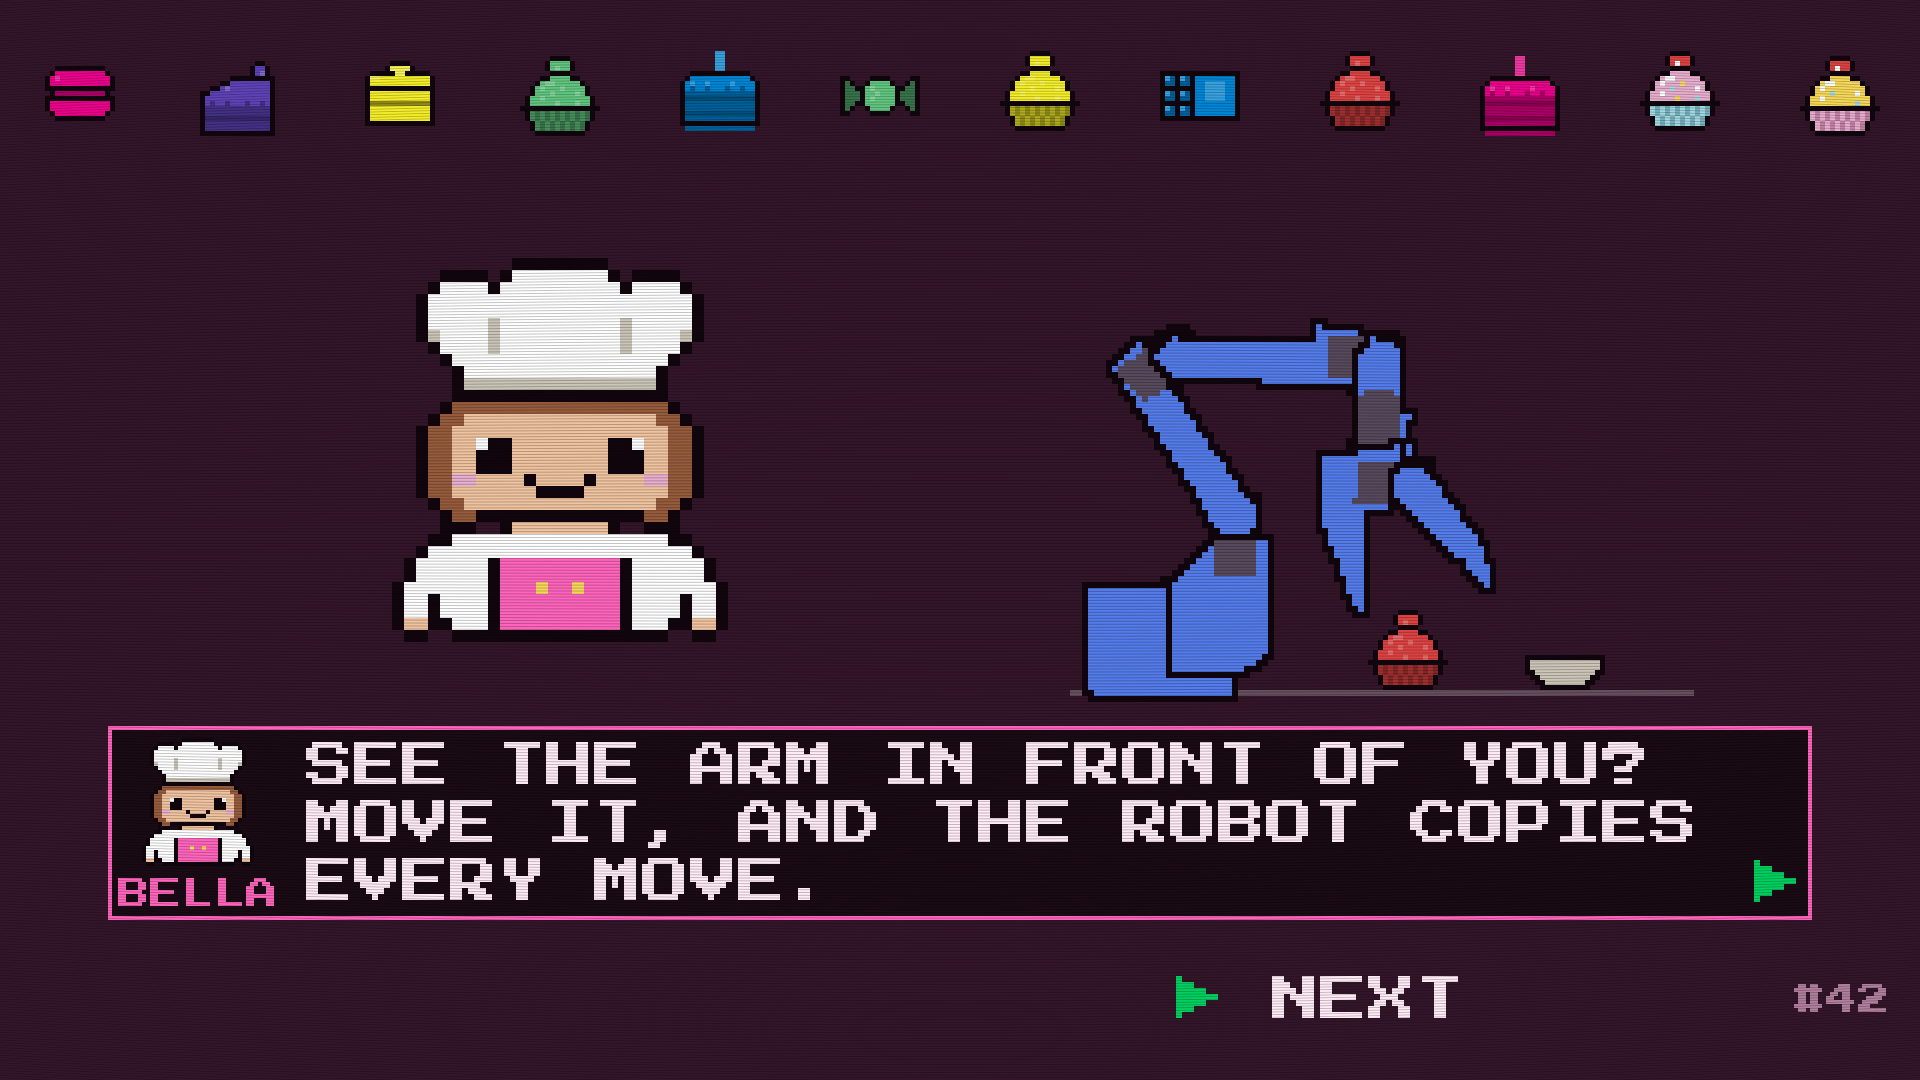
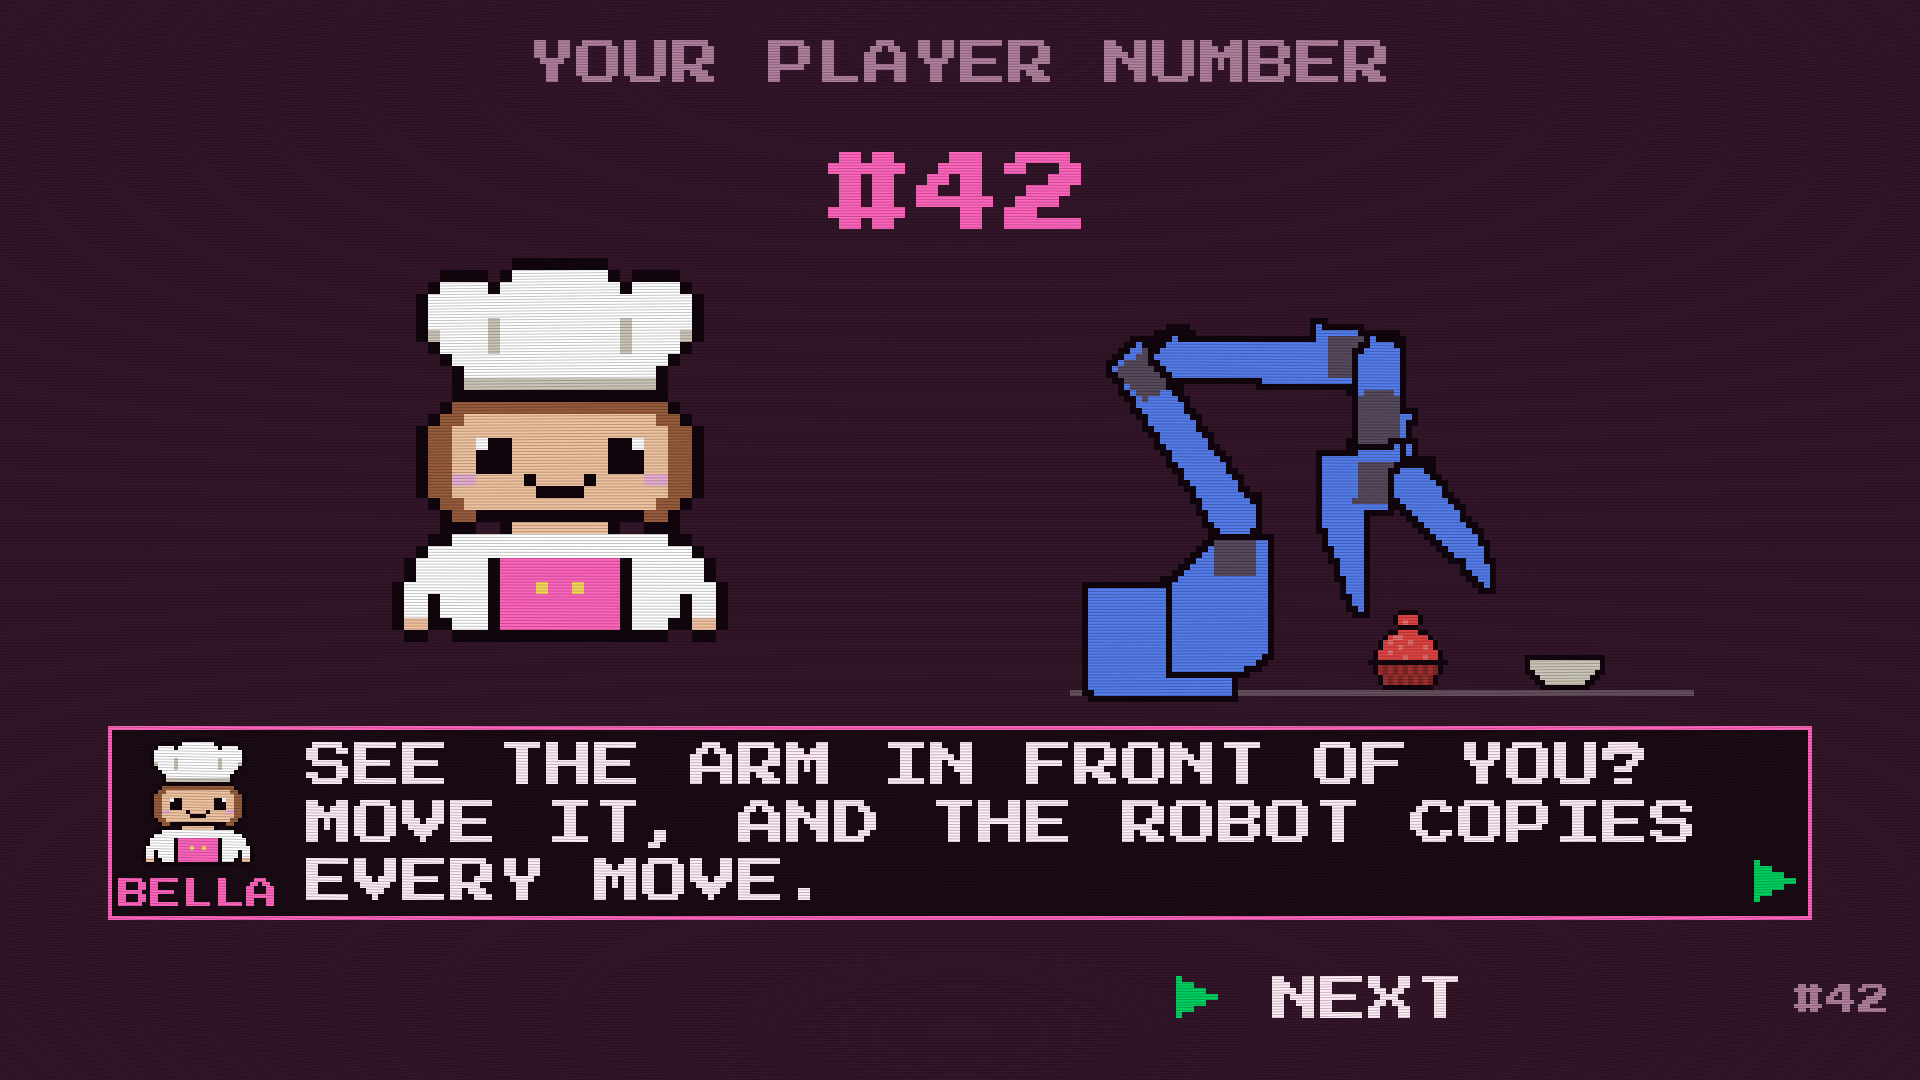
feat: player number big on Bella's first screen, pnp-cam <role> flip live
- StoryScene: "YOUR PLAYER NUMBER #N" in the game's header style instead of
  the parade; the corner tag alone went unnoticed at the fair
- pnp-cam arm|top flip mirror|ud|180|off writes flip.json, the game re-reads
  it once a second: orientation testable during a round, no restart. Display
  only, the overlay flips along. Replaces pnp-mirror and PNP_ARM_MIRROR/UD.
- handoff: clock notes

diff --git a/game/scenes.py b/game/scenes.py
@@ -735,12 +735,9 @@ class PickScene(SceneBase):
 class StoryScene(SceneBase):
     """Bella says hello. A returning player gets one line and skips practice.
 
-    No player number here any more (2026-09-24): not everyone wants to come
-    back a second time, and a number plus "show it to the team" as the
-    first thing after your name is homework before the game. It's shown
-    where it's needed instead -- small during the practice round, so the
-    team can copy it into the sign-up form, and once at the end, when
-    playing again is actually the question.
+    The player number stands big at the top (29.9., fair). On 24.9. it had
+    been moved to a small corner tag as "homework before the game"; at the
+    fair the team needs it for the sign-up form and nobody saw it.
     """
 
     MUSIC_IN = (0.0, 800)
@@ -774,7 +771,10 @@ class StoryScene(SceneBase):
     def render(self, screen):
         f = self.ctx.fonts
         screen.fill(BG)
-        parade(screen, self.now, 96, 60)
+        # The number up top, big, in the game's header style (29.9., fair):
+        # small in the corner, nobody noticed it before the end.
+        draw(screen, f["small"], self.t("your_no"), 960, 64, GREY)
+        draw(screen, f["mid"], f"#{self.player}", 960, 196, ACCENT)
         stamp(screen, self.dialog.face(), 12, 560, 450 + hop(self.now, 0, 6))
         demo(screen, self.now)
         self.dialog.draw(screen, f)
@@ -1054,19 +1054,22 @@ class GameScene(SceneBase):
             return "guest_joy"
         return "guest_sweat" if self.target and self.total > self.target else "guest"
 
-    def overlay(self, screen, r):
+    def overlay(self, screen, r, mirror=False, ud=False):
         """Detection window and a frame around every marker the camera sees.
 
         The frame answers "did it count?" right on the image, where the
         player is looking anyway -- without covering the treat the way a
-        price label did.
+        price label did. Flipped like the pane (pnp-cam top flip).
         """
+        fx = (lambda x: 1 - x) if mirror else (lambda x: x)
+        fy = (lambda y: 1 - y) if ud else (lambda y: y)
+        px = lambda x, y: (r.x + fx(x) * r.w, r.y + fy(y) * r.h)
         rx, ry, rw, rh = TRAY_ROI
-        pygame.draw.rect(screen, GREY, (r.x + rx * r.w, r.y + ry * r.h,
-                                        rw * r.w, rh * r.h), MARK_WIDTH)
+        (x0, y0), (x1, y1) = px(rx, ry), px(rx + rw, ry + rh)
+        pygame.draw.rect(screen, GREY, (min(x0, x1), min(y0, y1), abs(x1 - x0), abs(y1 - y0)),
+                         MARK_WIDTH)
         for quad in self.marks.values():
-            pygame.draw.polygon(screen, ACCENT, [(r.x + x * r.w, r.y + y * r.h)
-                                                 for x, y in quad], MARK_WIDTH)
+            pygame.draw.polygon(screen, ACCENT, [px(x, y) for x, y in quad], MARK_WIDTH)
 
     def bar(self, screen):
         """Where the total stands and where it needs to go, as one image.
@@ -1146,7 +1149,8 @@ class GameScene(SceneBase):
                 screen.fill(GREY, r.inflate(8, 8))
                 screen.blit(cam, r)
                 if view.det:
-                    self.overlay(screen, r)
+                    self.overlay(screen, r, getattr(view, "mirror", False),
+                                 getattr(view, "ud", False))
         if self.fx:
             self.fx.draw(screen)    # over the panes, under the numbers
         # The top says what to do, with a verb: "ADD 3,20 €", not "OFF BY".

diff --git a/tools/cam.py b/tools/cam.py
@@ -4,6 +4,7 @@
   pnp-cam top exposure 60     manual exposure in 100 us (1..10000), lower = darker
   pnp-cam arm exposure auto   back to the camera's own exposure
   pnp-cam top zoom 46         also gain, brightness, gamma, or any v4l2 name
+  pnp-cam arm flip 180        pane on screen: mirror | ud | 180 | off, live, no restart
   pnp-cam snap                both frames, top with the detection box, as jpg
   pnp-cam --test              self-test, no hardware
 """
@@ -27,8 +28,24 @@ def plan(name, value):
     return {name: int(value)}
 
 
+def flip(path, role, word):
+    """Write one pane's flip into flip.json, keep the other's."""
+    from config import FLIPS
+    if word not in FLIPS:
+        sys.exit(f"flip: {' | '.join(FLIPS)}")
+    try:
+        with open(path) as f:
+            saved = json.load(f)
+    except (OSError, ValueError):
+        saved = {}
+    saved[role] = word
+    with open(path, "w") as f:
+        json.dump(saved, f)
+
+
 def main(argv):
-    from config import CAM_INDEXES, CAM_CTRLS_FILE
+    from config import CAM_INDEXES, CAM_CTRLS_FILE, FLIP_FILE
+    from hw import read_flips
     roles = dict(zip(("arm", "top"), CAM_INDEXES))
 
     def ctl(role, *args):
@@ -51,6 +68,10 @@ def main(argv):
                 if os.path.exists(p) and os.path.getmtime(p) >= t:
                     print(p)
         return
+    if len(argv) == 3 and argv[0] in roles and argv[1] == "flip":
+        # Display only, the game re-reads the file every second
+        flip(FLIP_FILE, argv[0], argv[2])
+        argv = []
     if argv:
         if len(argv) != 3 or argv[0] not in roles:
             sys.exit(__doc__)
@@ -68,6 +89,10 @@ def main(argv):
             saved[role].pop("exposure_time_absolute", None)
         with open(CAM_CTRLS_FILE, "w") as f:
             json.dump(saved, f, indent=1)
+    from config import FLIPS
+    names = {v: k for k, v in FLIPS.items()}
+    for r, f in read_flips().items():
+        print(f"{r:4} flip {names[f]}")
     for r in roles:
         print(f"{r:4}", "  ".join(l.strip() for l in ctl(r, "-C", SHOW).splitlines()))
 
@@ -78,6 +103,13 @@ if __name__ == "__main__":
         assert plan("exposure", "auto") == {"auto_exposure": 3}
         assert plan("zoom", "46") == {"zoom_absolute": 46}
         assert plan("gain", "80") == {"gain": 80}
+        import tempfile
+        from hw import read_flips
+        t = tempfile.mktemp(suffix=".json")
+        flip(t, "top", "ud")
+        flip(t, "arm", "off")
+        assert read_flips(t) == {"arm": (False, False), "top": (False, True)}
+        os.unlink(t)
         print("ok")
     else:
         main(sys.argv[1:])

diff --git a/game/hw.py b/game/hw.py
@@ -1,4 +1,5 @@
 import fcntl
+import json
 import os
 import random
 import socket
@@ -11,7 +12,7 @@ import cv2
 import numpy as np
 import pygame
 
-from config import (VALUES, CAM_SIZE, CAM_VIEW, MARKER_HOLD, DETECT_HZ,
+from config import (VALUES, CAM_SIZE, CAM_VIEW, MARKER_HOLD, DETECT_HZ, FLIPS, FLIP_DEFAULT, FLIP_FILE,
                     TRAY_ROI, DEMO_SIZE, BUTTON_PINS, KEY_REPEAT, HOLD_QUIT,
                     LED_DEV, LED_COUNT, LED_ORDER, LED_BRIGHT, LED_FPS,
                     LED_STRIPES, LED_A, LED_B, LED_RED, LED_SIDES,
@@ -372,6 +373,20 @@ VIEW_GAMMA = float(os.environ.get("PNP_VIEW_GAMMA", "0.55"))   # <1 = brighter
 VIEW_LUT = np.array([255 * (i / 255) ** VIEW_GAMMA for i in range(256)], np.uint8)
 
 
+def read_flips(path=FLIP_FILE):
+    """{"arm": (mirror, ud), "top": ...} from FLIP_DEFAULT and flip.json.
+    A missing or broken file, or an unknown word, falls back to the default:
+    a typo must never take the game down."""
+    try:
+        with open(path) as f:
+            saved = json.load(f)
+    except (OSError, ValueError):
+        saved = {}
+    if not isinstance(saved, dict):
+        saved = {}
+    return {r: FLIPS.get(saved.get(r), FLIPS[d]) for r, d in FLIP_DEFAULT.items()}
+
+
 class CameraView:
     """Passthrough: newest camera frame as a pygame surface at inset size.
 
@@ -717,6 +732,15 @@ if __name__ == "__main__":
     assert v.get_at((5, 5))[:3] != (0, 0, 0) and v.get_at((35, 5))[:3] == (0, 0, 0)
     v = CameraView(_Cam(), size=(40, 20), mirror=True, ud=True).surface()   # 180°
     assert v.get_at((35, 5))[:3] != (0, 0, 0) and v.get_at((5, 5))[:3] == (0, 0, 0)
+    # Flips: default, file, and garbage that must fall back instead of raising
+    import tempfile
+    with tempfile.NamedTemporaryFile("w", suffix=".json", delete=False) as t:
+        t.write('{"arm": "180", "top": "nonsense"}')
+    assert read_flips(t.name) == {"arm": (True, True), "top": FLIPS[FLIP_DEFAULT["top"]]}
+    open(t.name, "w").write("{broken")
+    assert read_flips(t.name) == {r: FLIPS[d] for r, d in FLIP_DEFAULT.items()}
+    os.unlink(t.name)
+    assert read_flips("/nonexistent")["arm"] == FLIPS[FLIP_DEFAULT["arm"]]
     # Without a device, silent instead of crashing -- that's how the game runs on the Mac
     q = Leds(dev="/nonexistent")
     q.show("game", 0.3)

diff --git a/game/main.py b/game/main.py
@@ -1,16 +1,17 @@
 import os
 import signal
 import subprocess
+import time
 
 import cv2
 import pygame
-from config import (WIDTH, HEIGHT, FPS, FONT_PATH, FONT_SIZES, CAMERA, CAM_VIEWS, ARM_MIRROR, ARM_UD,
+from config import (WIDTH, HEIGHT, FPS, FONT_PATH, FONT_SIZES, CAMERA, CAM_VIEWS,
                     CAM_INDEXES, CAM_ZOOM, CAM_FLIP, DEMO_VIDEO, CV_THREADS, BUTTONS,
                     CAM_STALE, CAM_CTRLS, TRAY_ROI, MAC)
 from app import Ctx, run_game
 from db import DB
 from hw import (ArucoDetector, Buttons, Camera, CameraView, FakeDetector,
-                Leds, VideoView, notify)
+                Leds, VideoView, notify, read_flips)
 from music import Music, SR, BUF
 from scenes import IdleScene
 
@@ -54,7 +55,7 @@ def main():
     # Left is plain passthrough, right is the same image plus overlay. Only
     # the top-down pane gets the detector.
     ctx = Ctx(detector=det, db=DB(), fonts=fonts, music=Music(), leds=Leds(),
-              views=(CameraView(cams[arm], size=CAM_VIEWS[0], mirror=ARM_MIRROR, ud=ARM_UD),
+              views=(CameraView(cams[arm], size=CAM_VIEWS[0]),
                      CameraView(cams[top], det, size=CAM_VIEWS[1])) if cams else (),
               demo=VideoView(DEMO_VIDEO) if DEMO_VIDEO else None,
               buttons=Buttons() if BUTTONS else None)
@@ -62,10 +63,16 @@ def main():
     # The scene name goes to a file so the updater only restarts between
     # rounds; the watchdog ping only goes out while every camera delivers.
     run_dir = os.environ.get("RUNTIME_DIRECTORY")
-    last = None
+    last, polled = None, 0.0
 
     def beat(scene):
-        nonlocal last
+        nonlocal last, polled
+        # pnp-cam <role> flip ...: re-read once a second, no restart
+        if ctx.views and time.monotonic() - polled > 1.0:
+            polled = time.monotonic()
+            flips = read_flips()
+            for role, view in zip(("arm", "top"), ctx.views):
+                view.mirror, view.ud = flips[role]
         name = type(scene).__name__
         if run_dir and name != last:
             with open(os.path.join(run_dir, "state"), "w") as f:

diff --git a/game/config.py b/game/config.py
@@ -386,12 +386,14 @@ except FileNotFoundError:
 # below, the timer pie in the 224 px gap between the two. 768 x 432 left the
 # pie 8 px from the frames and the instruction no room to its label.
 CAM_VIEW      = (736, 414)
-# The arm cam is mirrored left/right by default (29.9., fair): unmirrored it
-# ran against the leader arm and people steered the wrong way by it.
-# PNP_ARM_MIRROR=0 turns it off (pnp-mirror). Display only -- the top-down
-# pane and the detector never see it.
-ARM_MIRROR    = os.environ.get("PNP_ARM_MIRROR", "1") == "1"
-ARM_UD        = os.environ.get("PNP_ARM_UD") == "1"   # upside down; both = 180°
+# How each pane is flipped on screen. Display only: the detector never sees
+# it, the overlay flips along. The arm cam is mirrored by default (29.9.,
+# fair): unmirrored it ran against the leader arm. `pnp-cam arm flip 180`
+# writes FLIP_FILE and the running game picks it up within a second.
+FLIPS         = {"off": (False, False), "mirror": (True, False),   # (mirror, upside down)
+                 "ud": (False, True), "180": (True, True)}
+FLIP_DEFAULT  = {"arm": "mirror", "top": "off"}
+FLIP_FILE     = os.path.join(os.path.dirname(__file__), "..", "flip.json")
 # split (default since the 29.9. evening): two equal panes, top-down left,
 # arm cam right. top: top-down big in the center, arm cam a small inset on
 # the left. The big arm cam in the center (fpv) stuttered and was dropped.

diff --git a/game/themes/sugar_rush.py b/game/themes/sugar_rush.py
@@ -81,7 +81,7 @@ TEXT = {
               "YOU GET {think} SECONDS TO DO THE MATH, THEN THE CLOCK STARTS FOR THE ARM.",
         think_q="WHICH TREATS MAKE {goal}?", ready="▶ READY",
         go="▶ START", get_ready="GET READY!", add="ADD", over="OVER BUDGET", hold="HANDS OFF! {n}",
-        perfect="PERFECT", player="PLAYER #{no}",
+        perfect="PERFECT", player="PLAYER #{no}", your_no="YOUR PLAYER NUMBER",
         score="SCORE", rank="#{place} OF {count} TODAY",
         remember="WANT ANOTHER GO? JUST REMEMBER YOUR NUMBER: #{no}",
         react=("OH, THE TRAY IS STILL EMPTY. MAYBE NEXT TIME!",
@@ -125,7 +125,7 @@ TEXT = {
         think_q="{goal}: WELCHE SÜßIGKEITEN PASSEN?", ready="▶ BEREIT",
         go="▶ LOS GEHT'S", get_ready="GLEICH GEHT'S LOS!", add="ES FEHLEN NOCH", over="ÜBER BUDGET",
         hold="NICHT MEHR ANFASSEN! {n}",
-        perfect="PERFEKT", player="SPIELER #{no}",
+        perfect="PERFEKT", player="SPIELER #{no}", your_no="DEINE SPIELERNUMMER",
         score="PUNKTE", rank="PLATZ {place} VON {count} HEUTE",
         remember="LUST AUF NOCH EINE RUNDE? MERK DIR DEINE NUMMER: #{no}",
         react=("OH, DAS TABLETT IST JA NOCH LEER. VIELLEICHT NÄCHSTES MAL!",

diff --git a/docs/handoff.md b/docs/handoff.md
@@ -12,8 +12,14 @@ run tests or camera snaps on the Pi while someone plays (it stutters).
 - `ssh picknplay` (WiFi, 172.22.1.2) is not reliable: `eth0` and `wlan0`
   share the static IP in netplan. `docs/operation.md` ("DHCP") is out of date.
 - **The Pi has no internet.** `pnp-update.timer` pulls nothing, a push to
-  origin/expo does NOT reach the Pi. Its wall clock is off, so DB `ts`
-  columns are wrong; differences in `events.t` are right (monotonic).
+  origin/expo does NOT reach the Pi.
+- **Clock:** no NTP and the RTC has no battery. Set by hand from the Mac on
+  29.9. (was 9 h 35 min behind; all DB `ts` of that boot shifted by the same
+  offset, backup `scores.backup-before-clock.db`), timezone Europe/Berlin.
+  After a power cut it resumes from the mtime of
+  `/var/lib/systemd/timesync/clock` (last run time), so check it:
+  `date` on Pi vs Mac, then `sudo date -s @$(date +%s)` via ssh.
+  `ts` columns are UTC; `events.t` is monotonic per boot.
 - The Mac has no `timeout`; use `perl -e 'alarm N; exec @ARGV' ...`.
 
 ## Unattended: what heals itself
@@ -42,8 +48,10 @@ Returning players start at `read`.
 
 Defaults, no drop-ins needed any more: layout `split` (top-down left, arm cam
 right, Oskar between), arm cam mirrored, round 120 s, `MARKER_HOLD` 1.0 s.
-Toggles still work (each restarts the game): `pnp-layout split|top`,
-`pnp-mirror on|off|ud|180`, `pnp-time N`, `pnp-think N`.
+Toggles: `pnp-cam arm flip mirror|ud|180|off` (and `top`) flips a pane
+live, no restart, kept in `flip.json` (display only, the overlay follows).
+These restart the game: `pnp-layout split|top`, `pnp-time N`, `pnp-think N`.
+The player number stands big on Bella's first screen.
 
 ## What the floor data said (29.9., 59 players, 25 finished rounds)
 
